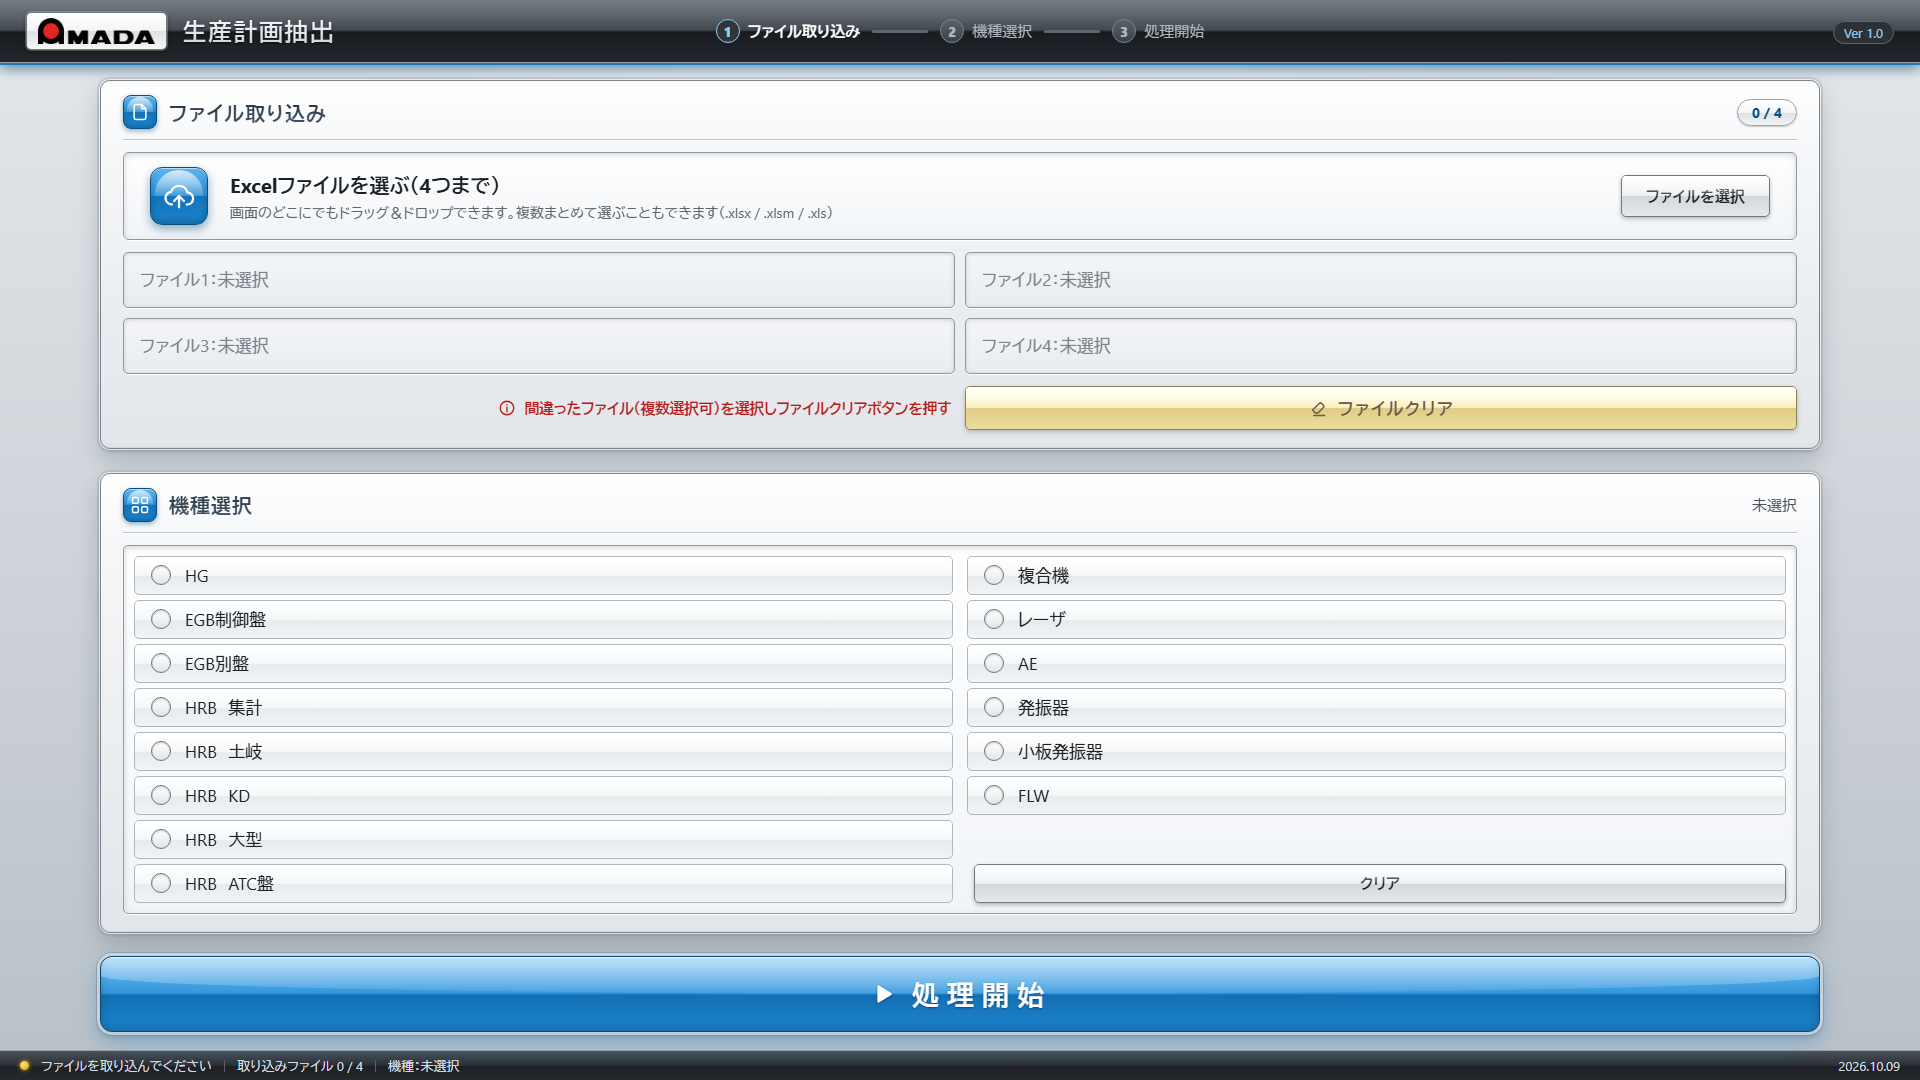
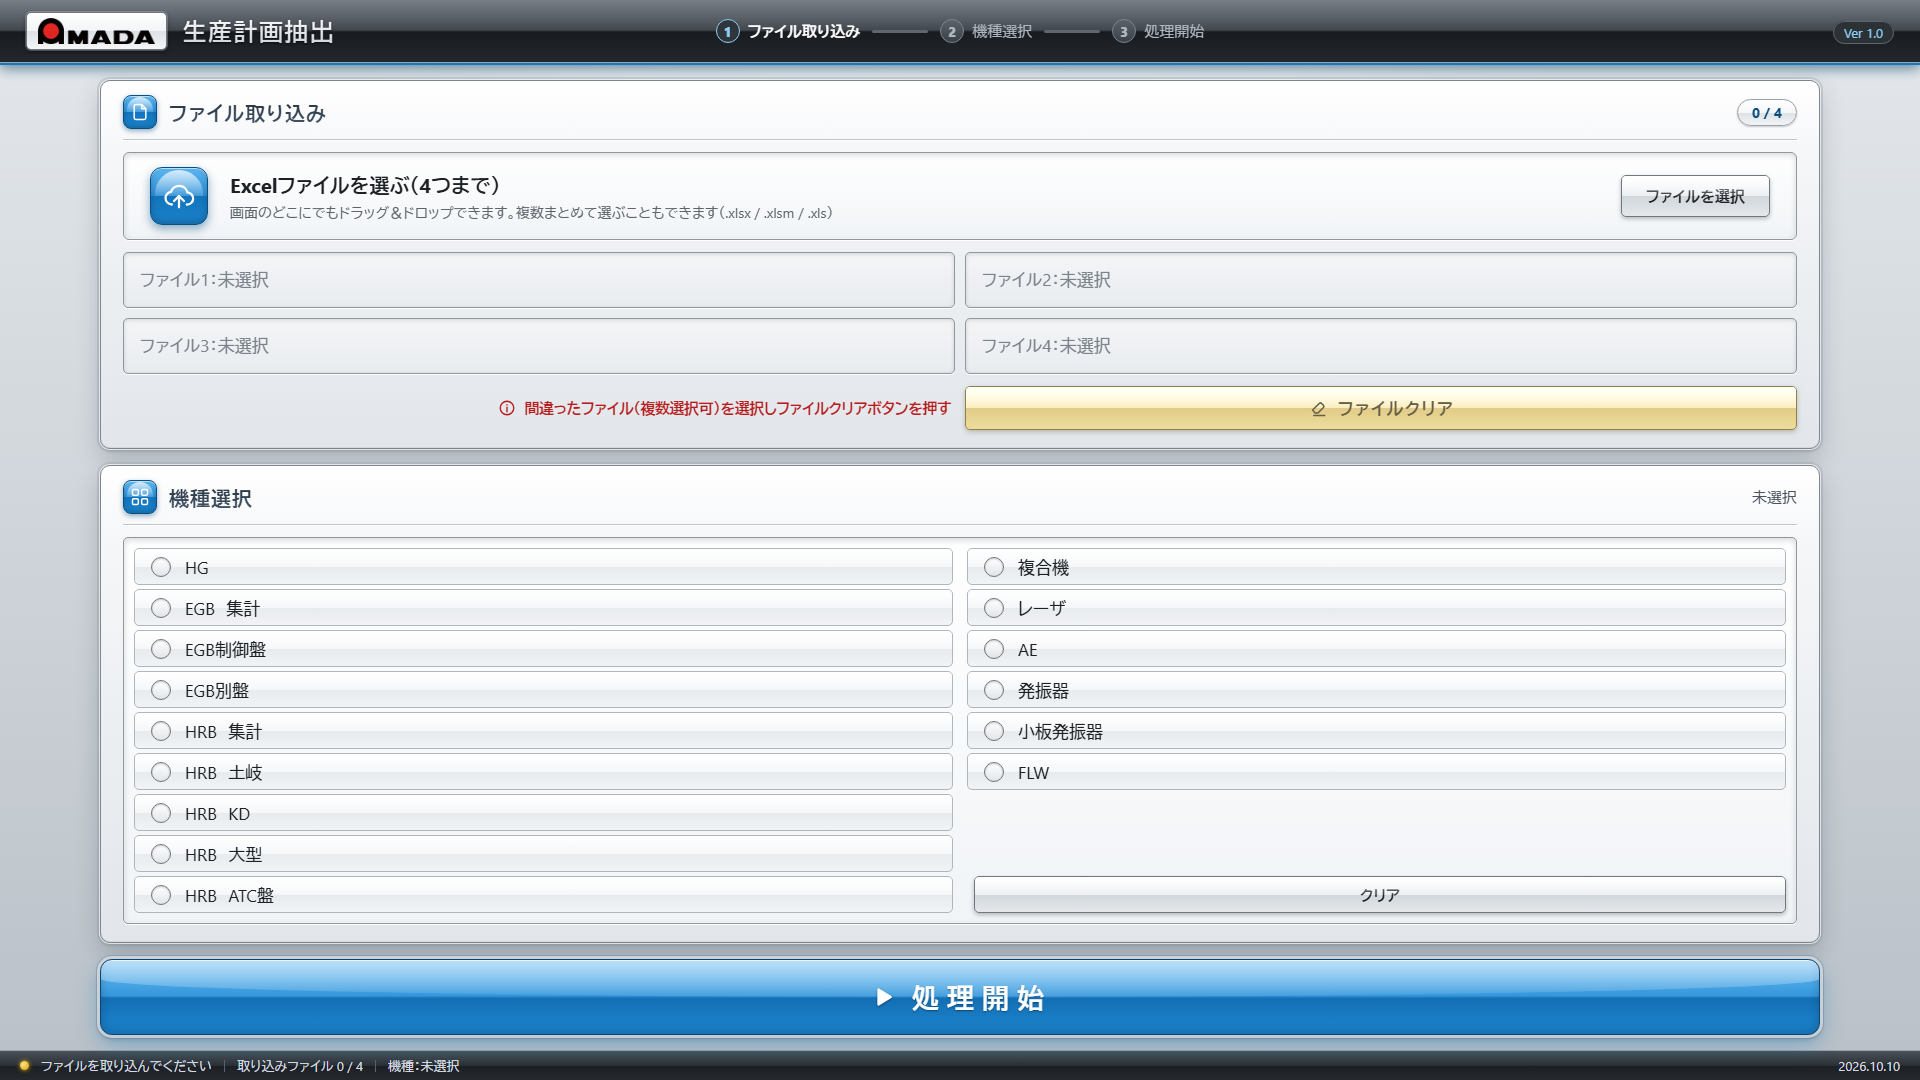
トップページの機種選択に「EGB　集計」を追加（HGとEGB制御盤の間）
- 機種タイルを2列×9段にし、1画面に収まるようタイルを少し詰めた（高さ37px・間隔4px）

Changed region(s): [[0.0312, 0.4278, 0.9688, 0.9778]]

diff --git a/index.html b/index.html
@@ -114,8 +114,8 @@ main{width:1720px;margin:0 auto;padding:18px 0;display:flex;flex-direction:colum
 .mcard{position:relative}
 .tiles{display:grid;grid-template-columns:1fr 1fr;gap:0 14px;padding:10px;border:1px solid #8F979F;border-radius:5px;
   background:linear-gradient(#FFFFFF,#F1F4F7);box-shadow:inset 0 2px 6px rgba(0,0,0,.16),inset 0 0 0 1px rgba(255,255,255,.6),0 1px 0 #fff}
-.tcol{display:flex;flex-direction:column;gap:5px}
-.tile{position:relative;overflow:hidden;display:flex;align-items:center;gap:14px;height:39px;padding:0 16px;border:1px solid #AEB6BE;border-radius:5px;font-size:17px;cursor:pointer;
+.tcol{display:flex;flex-direction:column;gap:4px}
+.tile{position:relative;overflow:hidden;display:flex;align-items:center;gap:14px;height:37px;padding:0 16px;border:1px solid #AEB6BE;border-radius:5px;font-size:17px;cursor:pointer;
   background:linear-gradient(#FFFFFF,#F4F6F8 50%,#E7EBEE 51%,#F1F3F5);box-shadow:inset 0 1px 0 #fff}
 .tile::before{opacity:.6}
 .tile input{position:absolute;opacity:0;width:1px;height:1px;margin:0}
@@ -128,7 +128,7 @@ main{width:1720px;margin:0 auto;padding:18px 0;display:flex;flex-direction:colum
 .tile:has(input:checked) .dot{background:#fff;border-color:#fff;color:var(--accent-dark)}.tile:has(input:checked) .dot svg{display:block}
 .tile:has(input:focus-visible){outline:3px solid #1F6FB2;outline-offset:2px}
 .tile.blank{visibility:hidden}
-#mclear{position:absolute;right:33px;bottom:29px;width:calc(50% - 47px);height:39px;font-size:15px}
+#mclear{position:absolute;right:33px;bottom:29px;width:calc(50% - 47px);height:37px;font-size:15px}
 
 /* 処理開始：大きなガラスのボタン */
 #done{position:relative;overflow:hidden;height:76px;display:flex;align-items:center;justify-content:center;gap:16px;font-size:27px;font-weight:700;letter-spacing:.3em;color:#fff;text-shadow:0 1px 2px rgba(0,0,0,.4);
@@ -1090,8 +1090,8 @@ $('done').addEventListener('click', () => {
 renderSlots();
 // 機種選択（ラジオボタン）。空欄は今後追加する機種用の空き枠
 const MACHINES = [
-  ['HG','EGB制御盤','EGB別盤','HRB　集計','HRB　土岐','HRB　KD','HRB　大型','HRB　ATC盤'],
-  ['複合機','レーザ','AE','発振器','小板発振器','FLW','','']
+  ['HG','EGB　集計','EGB制御盤','EGB別盤','HRB　集計','HRB　土岐','HRB　KD','HRB　大型','HRB　ATC盤'],
+  ['複合機','レーザ','AE','発振器','小板発振器','FLW','','','']
 ];
 (function renderMachines(){
   const g = $('mgrid');

diff --git a/アマダ生産計画抽出.html b/アマダ生産計画抽出.html
@@ -115,8 +115,8 @@ main{width:1720px;margin:0 auto;padding:18px 0;display:flex;flex-direction:colum
 .mcard{position:relative}
 .tiles{display:grid;grid-template-columns:1fr 1fr;gap:0 14px;padding:10px;border:1px solid #8F979F;border-radius:5px;
   background:linear-gradient(#FFFFFF,#F1F4F7);box-shadow:inset 0 2px 6px rgba(0,0,0,.16),inset 0 0 0 1px rgba(255,255,255,.6),0 1px 0 #fff}
-.tcol{display:flex;flex-direction:column;gap:5px}
-.tile{position:relative;overflow:hidden;display:flex;align-items:center;gap:14px;height:39px;padding:0 16px;border:1px solid #AEB6BE;border-radius:5px;font-size:17px;cursor:pointer;
+.tcol{display:flex;flex-direction:column;gap:4px}
+.tile{position:relative;overflow:hidden;display:flex;align-items:center;gap:14px;height:37px;padding:0 16px;border:1px solid #AEB6BE;border-radius:5px;font-size:17px;cursor:pointer;
   background:linear-gradient(#FFFFFF,#F4F6F8 50%,#E7EBEE 51%,#F1F3F5);box-shadow:inset 0 1px 0 #fff}
 .tile::before{opacity:.6}
 .tile input{position:absolute;opacity:0;width:1px;height:1px;margin:0}
@@ -129,7 +129,7 @@ main{width:1720px;margin:0 auto;padding:18px 0;display:flex;flex-direction:colum
 .tile:has(input:checked) .dot{background:#fff;border-color:#fff;color:var(--accent-dark)}.tile:has(input:checked) .dot svg{display:block}
 .tile:has(input:focus-visible){outline:3px solid #1F6FB2;outline-offset:2px}
 .tile.blank{visibility:hidden}
-#mclear{position:absolute;right:33px;bottom:29px;width:calc(50% - 47px);height:39px;font-size:15px}
+#mclear{position:absolute;right:33px;bottom:29px;width:calc(50% - 47px);height:37px;font-size:15px}
 
 /* 処理開始：大きなガラスのボタン */
 #done{position:relative;overflow:hidden;height:76px;display:flex;align-items:center;justify-content:center;gap:16px;font-size:27px;font-weight:700;letter-spacing:.3em;color:#fff;text-shadow:0 1px 2px rgba(0,0,0,.4);
@@ -1113,8 +1113,8 @@ $('done').addEventListener('click', () => {
 renderSlots();
 // 機種選択（ラジオボタン）。空欄は今後追加する機種用の空き枠
 const MACHINES = [
-  ['HG','EGB制御盤','EGB別盤','HRB　集計','HRB　土岐','HRB　KD','HRB　大型','HRB　ATC盤'],
-  ['複合機','レーザ','AE','発振器','小板発振器','FLW','','']
+  ['HG','EGB　集計','EGB制御盤','EGB別盤','HRB　集計','HRB　土岐','HRB　KD','HRB　大型','HRB　ATC盤'],
+  ['複合機','レーザ','AE','発振器','小板発振器','FLW','','','']
 ];
 (function renderMachines(){
   const g = $('mgrid');

diff --git a/CLAUDE.md b/CLAUDE.md
@@ -18,8 +18,8 @@
 - 取り込み枠：へこんだ白枠、ガラス玉のアップロードアイコン、右に「ファイルを選択」ボタン（枠全体がクリック・ドロップ先）。ドラッグ中は画面全体に青い点線のオーバーレイ。
 - ファイル枠（2列×2段）：Excelアイコン＋ファイル名＋「ファイルn・mシート」。クリックでクリア対象に選択（複数可）→ **光沢のあるローズ（赤）＋白文字＋右端「×」**。エラー（定義アンマッチ・重複）のファイルは **薄いピンク＋赤い枠線＋右端「！」**（塗りつぶさない）。
 - 「ファイルクリア」：右半分の幅、黄色の光沢ボタン＋消しゴムアイコン。左に赤字「間違ったファイル（複数選択可）を選択しファイルクリアボタンを押す」（ⓘアイコン付き）。選択したファイルだけ削除し、残りは番号が繰り上がる。
-- 機種選択：白い一覧枠の中に光沢タイル（2列×8段）。選択中は青いジェル調＋白文字＋✓。枠内右下（空き2段の位置）に「クリア」ボタン。
-- 機種（2列）：左 HG / EGB制御盤 / EGB別盤 / HRB　集計 / HRB　土岐 / HRB　KD / HRB　大型 / HRB　ATC盤、右 複合機 / レーザ / AE / 発振器 / 小板発振器 / FLW / （空き）/（空き）。※HRBと名称の間は全角スペース。
+- 機種選択：白い一覧枠の中に光沢タイル（2列×9段、タイル高さ37px・間隔4px）。選択中は青いジェル調＋白文字＋✓。枠内右下（右列の空き3段の最下段）に「クリア」ボタン。
+- 機種（2列）：左 HG / **EGB　集計**（2026-10-10追加） / EGB制御盤 / EGB別盤 / HRB　集計 / HRB　土岐 / HRB　KD / HRB　大型 / HRB　ATC盤、右 複合機 / レーザ / AE / 発振器 / 小板発振器 / FLW / （空き）/（空き）/（空き）。※HRB・EGBと名称の間は全角スペース。EGB　集計の処理は未設定。
 - 「処理開始」：全幅の大きな青いガラスボタン＋再生アイコン。常に押せる。
 - ステータスバー（下端）：ランプ（準備完了=緑、それ以外=黄）、状態文、取り込みファイル n / 4、機種、日付（2026.10.09形式）。updateStatus() で更新。
 - エラー表示（C案の見た目を維持）：**画面中央のダイアログ**で表示。赤枠・薄赤背景、×アイコン付き見出し、項目ごとに白い小枠で「原因（濃い赤太字）」と「→ 対処」。右下に赤い光沢の「OK」ボタン（閉じて元画面へ戻る）。
@@ -103,7 +103,7 @@
 ## 残作業
 - HRB　土岐の修正は完了（2026-10-09、オフライン版に反映済み）。
 - 2026-10-10 時点：HRB　土岐・複合機・HRB　大型は完了（HRB大型はユーザーが完了と確認）。作業フォルダに新しいファイル：HRBツールステーション発送計画2026.09.07.xlsx、【土岐】KD梱包日程202701.xlsx、ファイン電子用生産機資料-20260922 (1).xlsx（用途は未確認）。
-- 残りの機種（HG／EGB制御盤／EGB別盤／HRB　集計／HRB　KD／HRB　ATC盤／レーザ／AE／発振器／小板発振器／FLW）の処理方法・エラー定義の追加。
+- 残りの機種（HG／EGB　集計／EGB制御盤／EGB別盤／HRB　集計／HRB　KD／HRB　ATC盤／レーザ／AE／発振器／小板発振器／FLW）の処理方法・エラー定義の追加。
 - 作業フォルダは「生産計画アプリ作成」（元の「アマダ生産計画抽出_ClaudeCode」からコピー）。動作確認は .claude/launch.json の local（python http.server 8765）で http://localhost:8765/index.html を開く。
 - HRB　土岐のエラー定義の追加（必要に応じてユーザーが説明）。
 - ユーザーは日本語・半角カナ混じりで短く指示する。変更後は画面が1画面に収まるかを確認する。
